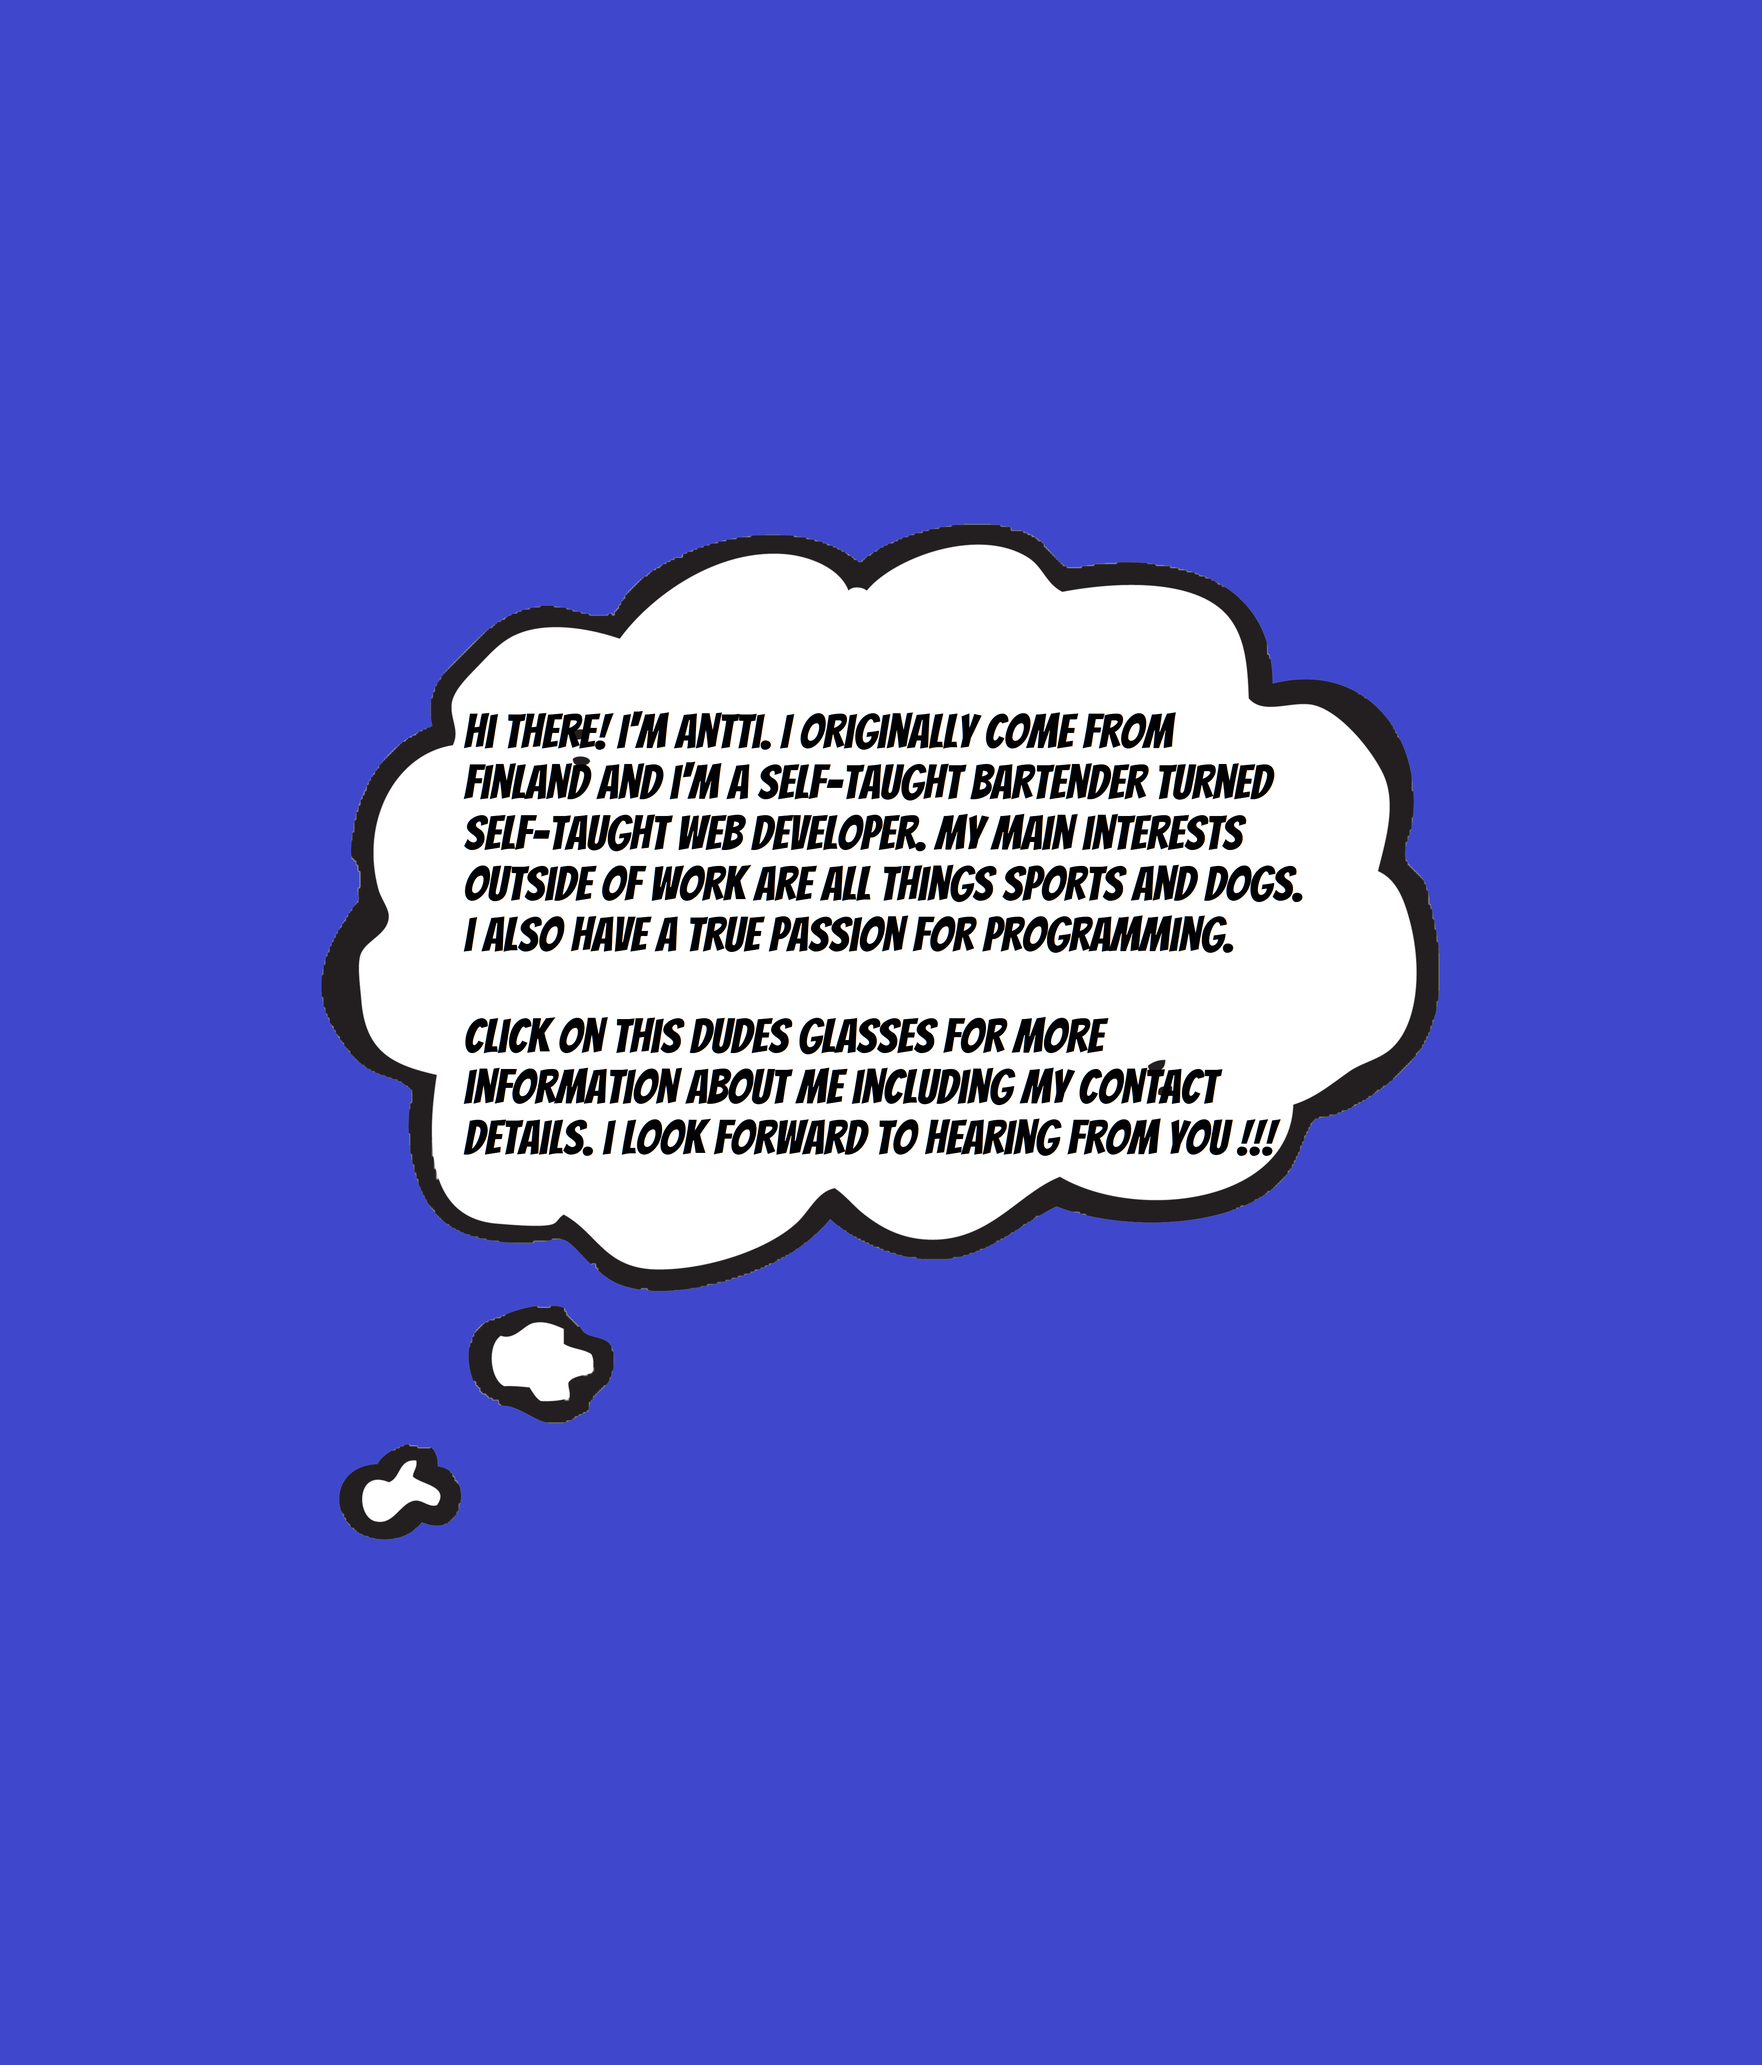
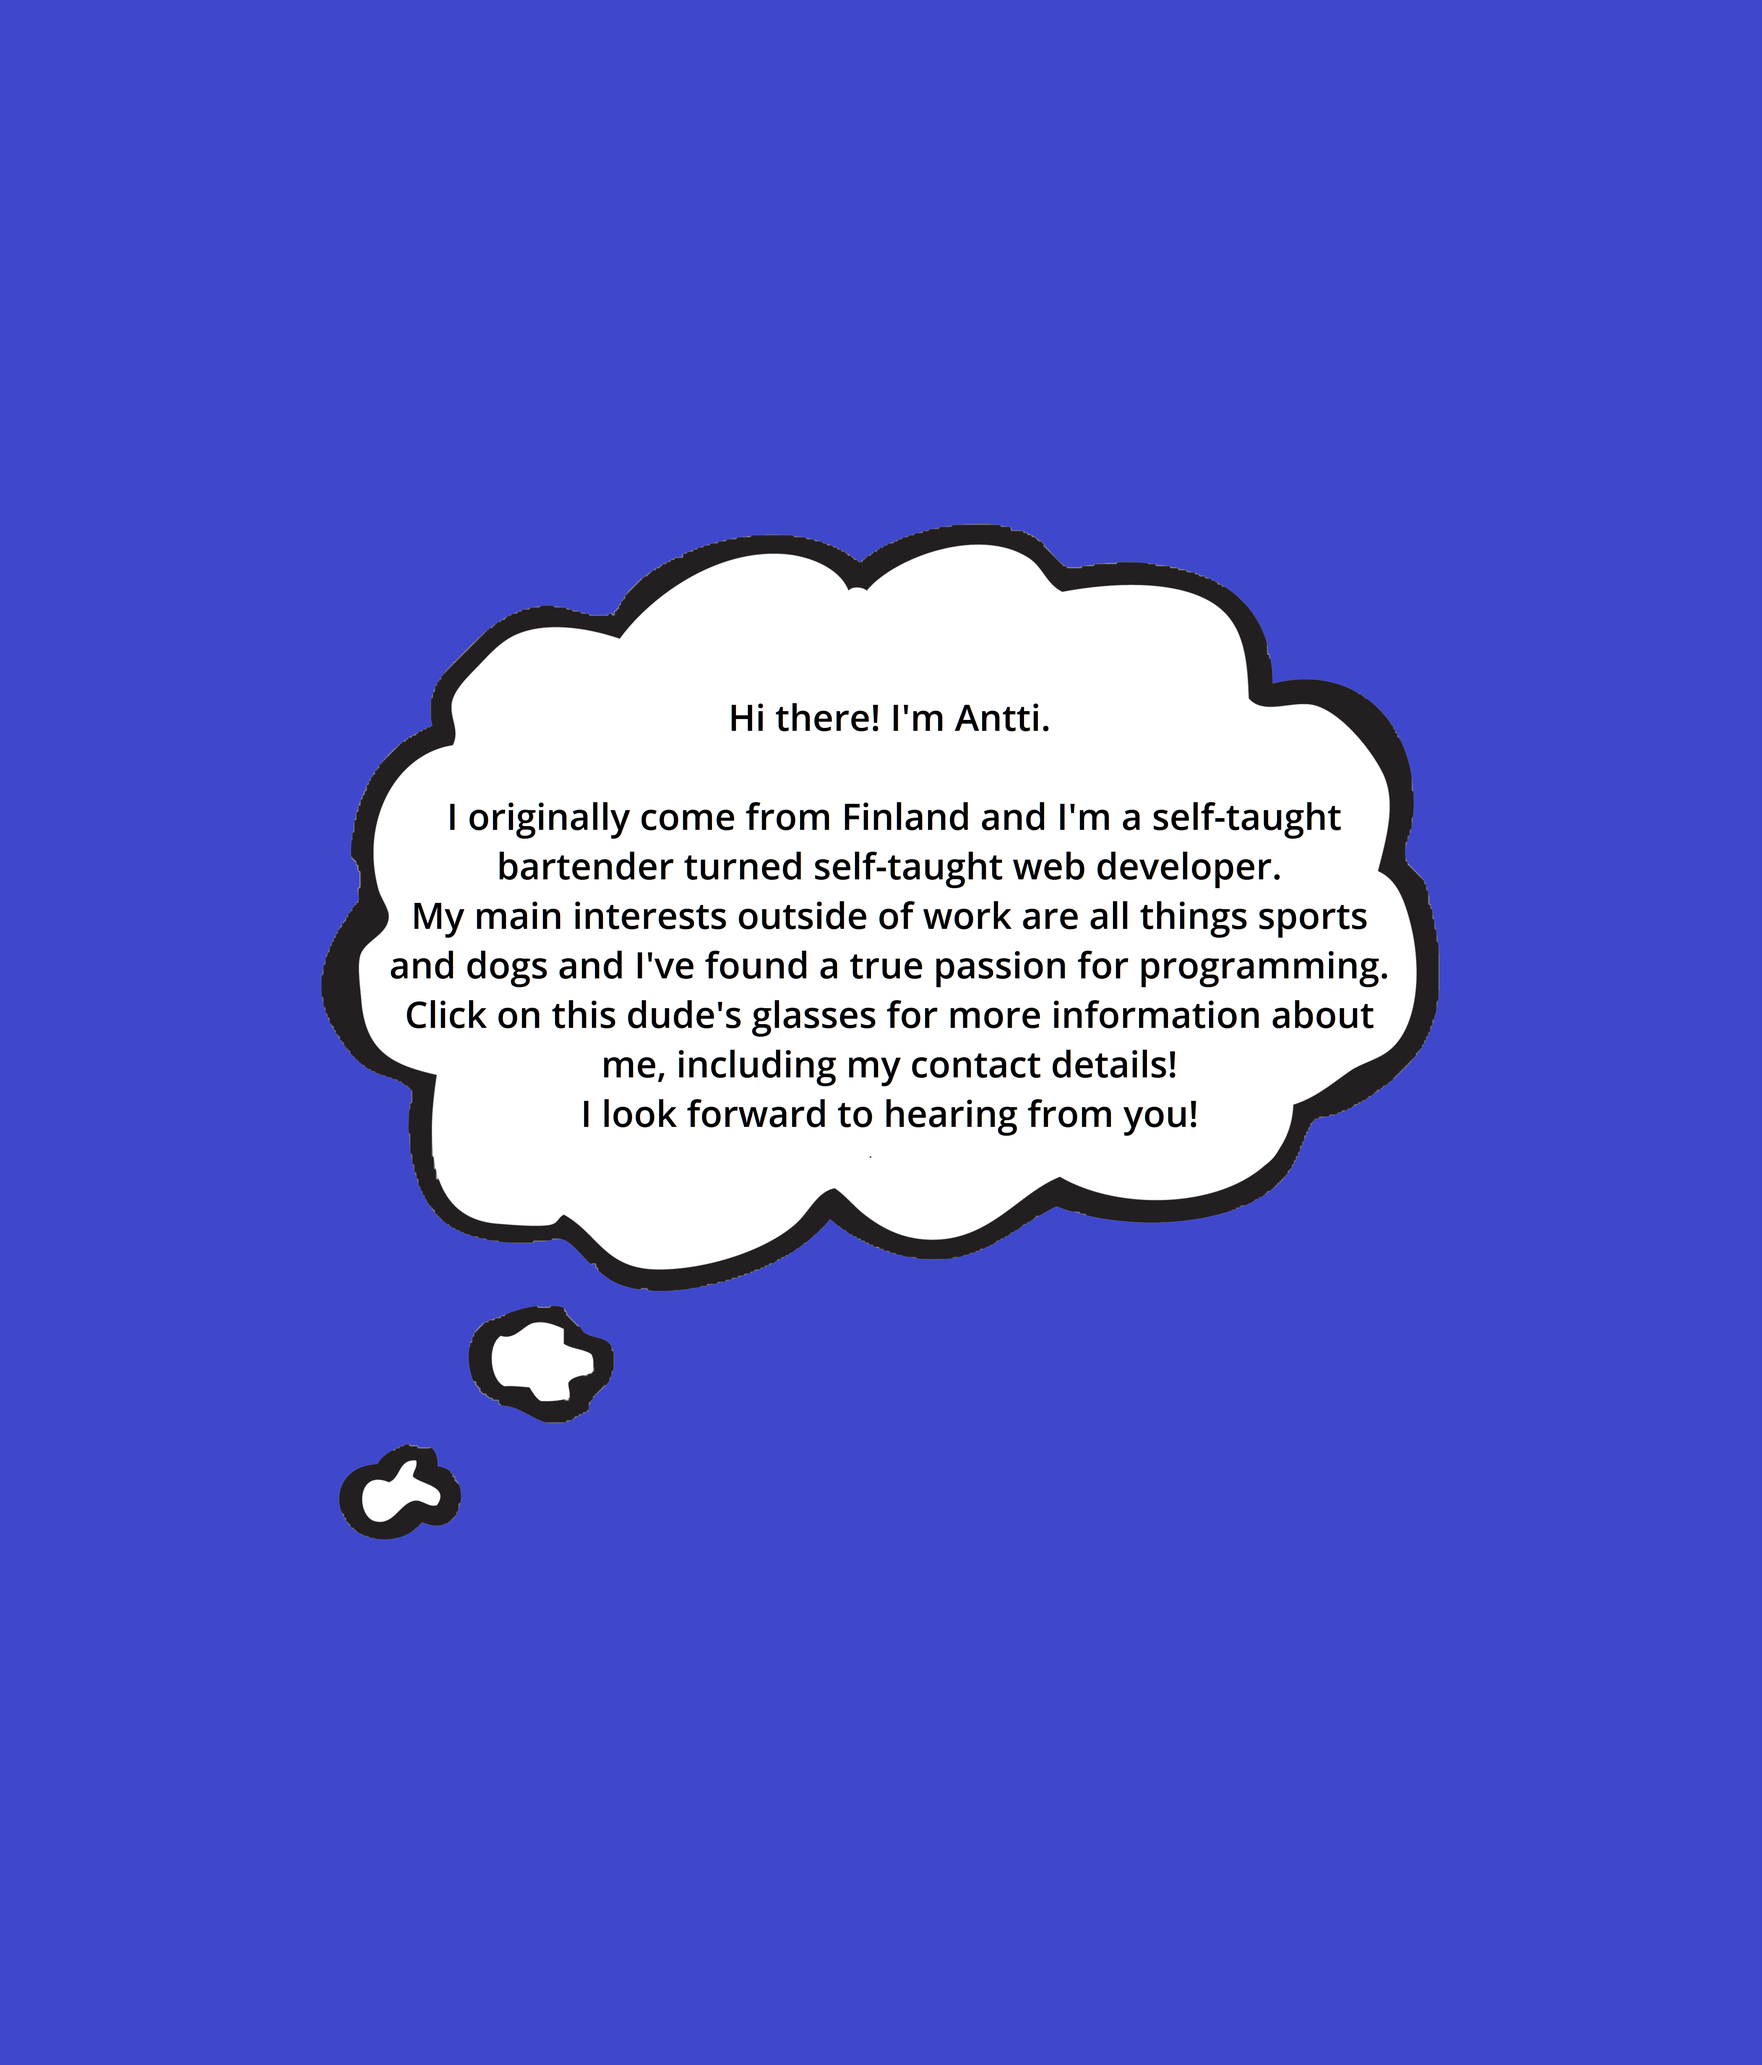
make index.html responsive

Changed region(s): [[0.2183, 0.3419, 0.7798, 0.5595]]

diff --git a/main.css b/main.css
@@ -7,119 +7,138 @@ html {
 	font-family: 'Bangers', cursive;
 	overflow: hidden;
 }
-#container {
-	display: flex;
-	flex-direction: column;
-	width: 100%;
-	justify-content: flex-end;
-	align-items: center;
-}
+/* ====================================== */
+/* MOBILE VIEW */
+/* ====================================== */
+
 header {
-	position: absolute;
-	top: -1000px;
-	-webkit-transition: top 1.5s ease;
-	transition: top 1.5s ease;
-	left: 5%;
+	max-width: 100%;
 }
 
 img {
-	position: relative;
-	width: 800px;
+	display: none;
 }
 .blurb {
-	transform: rotate(-9deg);
 	position: absolute;
-	top: 25%;
-	left: 20%;
-	width: 100%;
-	color: white;
+	background-color: rgba(255, 235, 205, 0.329);
+	top: 20vh;
+	left: 0;
+	color: black;
 	letter-spacing: 2px;
 	font-size: larger;
-}
-
-.side-i {
-	position: relative;
-	/* top: 60px;
-    left: 25px; */
+	padding: 15px;
 	text-align: center;
-	font-size: x-large;
-	color: white;
 }
-.side-nav {
-	display: none;
-	font-family: 'Bangers', cursive;
-	letter-spacing: 1px;
-}
-.ul-hover {
-	background-color: rgba(4, 7, 10, 0.534);
-	width: 120px;
-	transition: .8s;
-}
+
 ul {
-	width: 10px;
-	margin-top: 0;
-	height: 100%;
-	align-self: flex-start;
+	display: none;
+}
+.buttons {
+	display: flex;
+	flex-direction: column;
 	position: absolute;
-	top: 0%;
-	left: -20px;
-	list-style: none;
-}
-li {
-	margin-top: 25px;
-}
-
-a {
-	color: white;
-}
-
-button i {
-	transform: rotateY(180deg);
+	width: 100%;
+	align-items: center;
+	top: 53%;
 }
 
 #works {
+	position: relative;
+	width: 60%;
 	border: none;
 	border-radius: 10px;
-	transform: rotate(9deg);
-	margin: 8% 0 0 35%;
 	padding: 5px;
-	font-size: 2rem;
 	font-family: inherit;
 	outline: none;
 	cursor: pointer;
 }
 #deets {
-	position: absolute;
+	position: relative;
+	width: 60%;
 	margin-top: 15px;
 	border: none;
 	border-radius: 10px;
-	transform: rotate(9deg);
 	padding: 5px;
-	font-size: 2rem;
 	font-family: inherit;
 	outline: none;
 	cursor: pointer;
 }
+/* ============================== */
+/* TABLET */
+/* ============================== */
+@media (min-width: 516px) {
+	header {
+		width: 100%;
+		left: 0;
+		/* position: absolute; */
+		top: -1000px;
+		-webkit-transition: top 1.5s ease;
+		transition: top 1.5s ease;
+	}
+	.blurb {
+		width: 100%;
+	}
+}
 
-#works:hover i {
-	color: rgb(57, 57, 252);
-	transition: 0.9s;
-	transform: rotateY(-0deg);
-}
-#deets:hover i {
-	color: rgb(160, 228, 59);
-	transition: 0.9s;
-	transform: scale(1.5);
-}
-
-.rocket-works {
-	color: rgb(57, 57, 252);
-	animation-name: rocket;
-	animation-duration: 1s;
-}
-.rocket-deets {
-	color: rgb(160, 228, 59);
-	animation: pop 1s;
+/* =================================== */
+/* LAPTOP */
+/* =================================== */
+@media (min-width: 780px) {
+	#container {
+		display: flex;
+		flex-direction: column;
+		width: 100%;
+		justify-content: flex-end;
+		align-items: center;
+	}
+	header {
+		position: absolute;
+	}
+	img {
+		display: block;
+		max-width: 60%;
+	}
+	h2 {
+		text-align: center;
+		padding-left: 5%;
+		max-width: 85%;
+	}
+	.blurb {
+		display: none;
+	}
+	.buttons {
+		display: inline;
+		padding-left: 13%;
+		top: 65%;
+	}
+	#works, #deets {
+		font-size: 2vw;
+		width: 15%;
+	}
+	#deets {
+		width: 15%;
+		margin-left: 3%;
+	}
+	#works:hover i {
+		color: rgb(57, 57, 252);
+		transition: 0.9s;
+		transform: rotateY(-0deg);
+	}
+	#deets:hover i {
+		color: rgb(160, 228, 59);
+		transition: 0.9s;
+		transform: scale(1.5);
+	}
+	
+	.rocket-works {
+		color: rgb(57, 57, 252);
+		animation-name: rocket;
+		animation-duration: 1s;
+	}
+	.rocket-deets {
+		color: rgb(160, 228, 59);
+		animation: pop 1s;
+	}
 }
 
 
@@ -142,4 +161,3 @@ button i {
 		transform: translate(1000px, 500px);
 	}
 }
-

diff --git a/index.html b/index.html
@@ -6,13 +6,12 @@
     <meta name="viewport" content="width=device-width, initial-scale=1.0">
     <link rel="stylesheet" href="https://use.fontawesome.com/releases/v5.13.1/css/all.css"
         integrity="sha384-xxzQGERXS00kBmZW/6qxqJPyxW3UR0BPsL4c8ILaIWXva5kFi7TxkIIaMiKtqV1Q" crossorigin="anonymous">
-    <link href="https://fonts.googleapis.com/css2?family=Bangers&display=swap" rel="stylesheet">
-    <link rel="stylesheet" href="main.css">
+        <link href="https://fonts.googleapis.com/css2?family=Bangers&family=Open+Sans&display=swap" rel="stylesheet">    <link rel="stylesheet" href="main.css">
     <title>Antti</title>
 </head>
 
 <body>
-    <div class="container">
+    <div id="container">
         <ul>
             <li><a href="index.html"><i class="side-i fab fa-fort-awesome-alt"><span class="side-nav">Homebase</span></i></a>
             </li>
@@ -20,13 +19,16 @@
             <li><a href="deets.html"><i class="side-i fas fa-user-astronaut"><span class="side-nav">The deets</span></i></a></li>
         </ul>
         <header id="fromTheTop">
-            <img src="images/shutterstock_759984835.png" alt="">
+            <img src="images/lightboard.png" alt="">
             <div class="blurb">
-                <h2>Hi! I'm Antti, an aspiring webdeveloper.</h2>
+                <h2>Hi! I'm Antti, an aspiring web developer.</h2>
                 <h2>Nice to meet you!</h2>
-                <button id="deets">The deets <i id="deets-i" class="fas fa-user-astronaut"></i></button>
-                <button id="works">The works <i id="works-i" class="fas fa-rocket"></i></button>
             </div>
+            <div class="buttons">
+                <button id="works">My works <i id="works-i" class="fas fa-rocket"></i></button>
+                <button id="deets">My deets <i id="deets-i" class="fas fa-user-astronaut"></i></button>
+            </div>
+           
 
         </header>
     </div>

diff --git a/works.html b/works.html
@@ -8,8 +8,7 @@
     <link rel="preload" href="works.css" as="style">
     <link rel="stylesheet" href="https://use.fontawesome.com/releases/v5.13.1/css/all.css"
         integrity="sha384-xxzQGERXS00kBmZW/6qxqJPyxW3UR0BPsL4c8ILaIWXva5kFi7TxkIIaMiKtqV1Q" crossorigin="anonymous">
-    <link href="https://fonts.googleapis.com/css2?family=Bangers&display=swap" rel="stylesheet">
-    <link rel="stylesheet" href="works.css">
+        <link href="https://fonts.googleapis.com/css2?family=Bangers&family=Open+Sans&display=swap" rel="stylesheet">    <link rel="stylesheet" href="works.css">
 </head>
 
 <body>
@@ -23,7 +22,7 @@
         <img id="billboard" src="images/billboard.png" alt="">
         <div id="works-card">
             <img id="anti-bug" src="images/antibug.png" alt="">
-            <h4>The Anti-Bug Project!</h4>
+            <h2>The Anti-Bug Project!</h2>
             <p>My first ever independent project built using node.js, express, mySQL and styled with Bootstrap4 and some
                 custom CSS</p>
             <p>The Anti-Bug is a simple project and bug tracking web app that uses RESTful routing and a SQL database to

diff --git a/deets.html b/deets.html
@@ -6,8 +6,7 @@
     <meta name="viewport" content="width=device-width, initial-scale=1.0">
     <link rel="stylesheet" href="https://use.fontawesome.com/releases/v5.13.1/css/all.css"
         integrity="sha384-xxzQGERXS00kBmZW/6qxqJPyxW3UR0BPsL4c8ILaIWXva5kFi7TxkIIaMiKtqV1Q" crossorigin="anonymous">
-    <link href="https://fonts.googleapis.com/css2?family=Bangers&display=swap" rel="stylesheet">
-    <link rel="stylesheet" href="deets.css">
+        <link href="https://fonts.googleapis.com/css2?family=Bangers&family=Open+Sans&display=swap" rel="stylesheet">    <link rel="stylesheet" href="deets.css">
     <title>The Deets</title>
 </head>
 

diff --git a/main.js b/main.js
@@ -1,5 +1,5 @@
 setTimeout(function() {
-	document.getElementById('fromTheTop').style.top = '15vh';
+	document.getElementById('fromTheTop').style.top = '6vh';
 }, 300);
 
 const worksIcon = document.querySelector('#works-i');

diff --git a/works.css b/works.css
@@ -67,6 +67,9 @@ h1 {
 	height: auto;
 	cursor: pointer;
 }
+p {
+	font-family: 'Open Sans', sans-serif;
+}
 
 #works-card:hover {
 	animation: glow 1s forwards;

diff --git a/deets.css b/deets.css
@@ -111,6 +111,7 @@ li {
 	margin-top: 25px;
 }
 
+
 a {
     color: inherit;
     padding: 5px;
